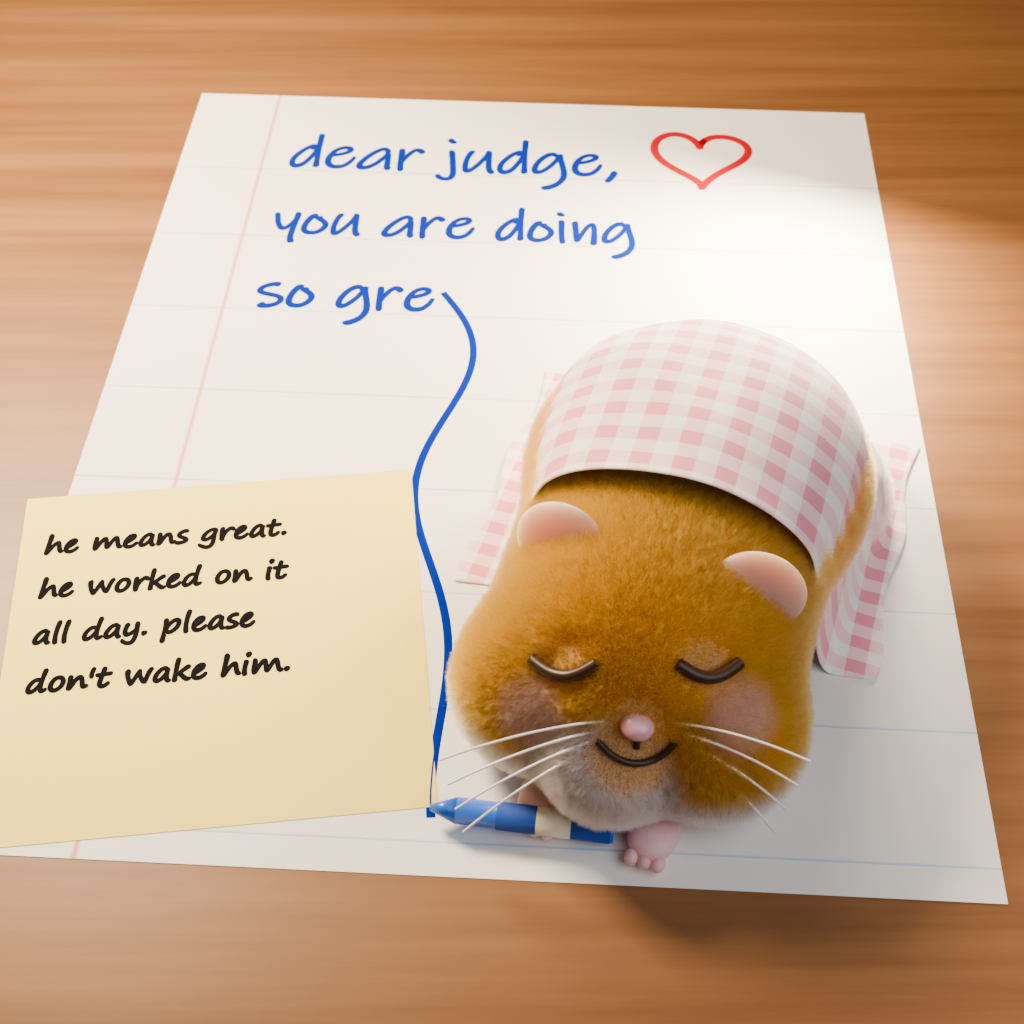
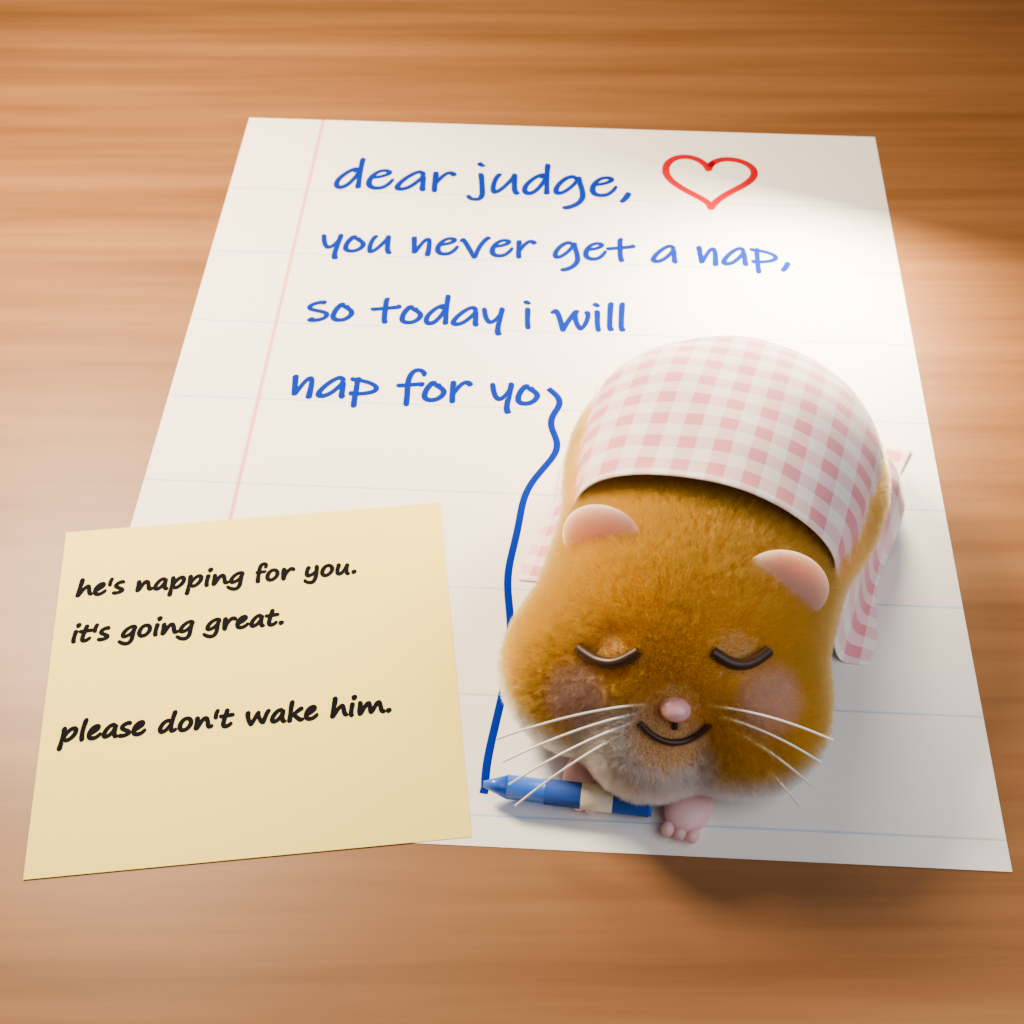
v5: he naps for the judge, who never gets one (letter and note rewritten, trail routed in view)

diff --git a/render/scene.py b/render/scene.py
@@ -456,10 +456,13 @@ def rule_y(k):
 
 
 LEFT = -PAPER_W / 2 + 0.55
-L1 = text_object("Line1", "dear judge,", "Inkfree.ttf", 0.52, on_paper(LEFT, rule_y(3) + 0.03), M_BLUE, PAPER_ROT)
-L2 = text_object("Line2", "you are doing", "Inkfree.ttf", 0.46, on_paper(LEFT, rule_y(2) + 0.03), M_BLUE, PAPER_ROT)
-L3 = text_object("Line3", "so gre", "Inkfree.ttf", 0.46, on_paper(LEFT, rule_y(1) + 0.03), M_BLUE, PAPER_ROT)
-for t in (L1, L2, L3):
+# the letter: he noticed the judge never gets to rest, so he offered to nap on its behalf, and did, mid-word
+L1 = text_object("Line1", "dear judge,", "Inkfree.ttf", 0.5, on_paper(LEFT, rule_y(3) + 0.03), M_BLUE, PAPER_ROT)
+L2 = text_object("Line2", "you never get a nap,", "Inkfree.ttf", 0.4, on_paper(LEFT, rule_y(2) + 0.03), M_BLUE,
+                 PAPER_ROT)
+L3 = text_object("Line3", "so today i will", "Inkfree.ttf", 0.4, on_paper(LEFT, rule_y(1) + 0.03), M_BLUE, PAPER_ROT)
+L4 = text_object("Line4", "nap for yo", "Inkfree.ttf", 0.4, on_paper(LEFT, rule_y(0) + 0.03), M_BLUE, PAPER_ROT)
+for t in (L1, L2, L3, L4):
     t.data.extrude = 0.0
     t.data.offset = 0.008  # a hair bolder, the way a crayon writes
 
@@ -654,7 +657,7 @@ gnt.links.new(gsum.outputs["Value"], ghalf.inputs[0])
 gnt.links.new(ghalf.outputs["Value"], gramp.inputs["Fac"])
 gnt.links.new(gramp.outputs["Color"], principled_of(M_GINGHAM).inputs["Base Color"])
 
-BX, BY0, BY1, NX, NY = 0.5, 0.02, 0.78, 60, 70
+BX, BY0, BY1, NX, NY = 0.45, 0.02, 0.78, 60, 70
 CLEAR = 0.075  # above the fur
 heights, base = {}, {}
 for j in range(NY + 1):
@@ -704,20 +707,46 @@ sub = blanket.modifiers.new("Smooth", "SUBSURF")
 sub.levels = 1
 sub.render_levels = 2
 
-# --- the sleepy line: from the end of "gre" down to the crayon tip, wandering and slowing
-w3 = text_width(L3)
-start = on_paper(LEFT + w3 + 0.04, rule_y(1) + 0.16)
+# --- the sleepy line: from the end of "yo" down to the crayon tip, wandering and slowing
+w4 = text_width(L4)
+start = on_paper(LEFT + w4 + 0.04, rule_y(0) + 0.14)
+# it dips left off the end of the word, then slides straight down the gap between the note and him
+c_ = math.cos(PAPER_ROT)
+s_ = math.sin(PAPER_ROT)
+
+
+def to_paper(v):
+    d = v - paper.location
+    return Vector((c_ * d.x + s_ * d.y, -s_ * d.x + c_ * d.y))
+
+
+tip_p = to_paper(tip_world)
+start_p = to_paper(start)
+lane_x = tip_p.x + 0.04
+way = [start_p, Vector((start_p.x + 0.05, start_p.y - 0.22)), Vector((lane_x + 0.12, start_p.y - 0.5)),
+       Vector((lane_x, start_p.y - 0.9)), Vector((lane_x + 0.02, (start_p.y + tip_p.y) / 2 - 0.3)),
+       Vector((tip_p.x + 0.01, tip_p.y + 0.12)), tip_p]
+
+
+def catmull(ps, n):
+    out = []
+    ext = [ps[0] * 2 - ps[1]] + ps + [ps[-1] * 2 - ps[-2]]
+    for k in range(1, len(ext) - 2):
+        p0, p1, p2, p3 = ext[k - 1], ext[k], ext[k + 1], ext[k + 2]
+        for i in range(n):
+            t = i / n
+            out.append(0.5 * ((2 * p1) + (-p0 + p2) * t + (2 * p0 - 5 * p1 + 4 * p2 - p3) * t * t
+                              + (-p0 + 3 * p1 - 3 * p2 + p3) * t * t * t))
+    out.append(ps[-1])
+    return out
+
+
 pts = []
-N = 60
-for i in range(N + 1):
-    t = i / N
-    base = start.lerp(tip_world, t)
-    # a slow sideways wobble that settles, plus one loop where the paw slipped
-    perp = Vector((-(tip_world - start).y, (tip_world - start).x, 0)).normalized()
-    wob = 0.16 * math.sin(t * math.pi * 3.2) * (1 - t) ** 0.8
-    p = base + perp * wob
-    p.z = 0.0015
-    pts.append(tuple(p))
+path = catmull(way, 12)
+for i, q in enumerate(path):
+    t = i / (len(path) - 1)
+    wob = 0.035 * math.sin(t * math.pi * 9.0) * (1 - t)  # the hand drifting as he nods off
+    pts.append(tuple(on_paper(q.x + wob, q.y)))
 scribble = curve_object("Scribble", pts, 0.016, M_BLUE)
 scribble.scale = (1, 1, 0.12)
 
@@ -737,8 +766,8 @@ heart_obj = curve_object("Heart", heart, 0.021, M_RED)
 heart_obj.scale = (1, 1, 0.12)
 
 # --- the sticky note, in another hand
-NOTE_LOC = on_paper(-1.02, -1.3, 0.002)
-bpy.ops.mesh.primitive_plane_add(size=1.55, location=NOTE_LOC, rotation=(0, 0, math.radians(6)))
+NOTE_LOC = on_paper(-1.1, -1.5, 0.002)
+bpy.ops.mesh.primitive_plane_add(size=1.6, location=NOTE_LOC, rotation=(0, 0, math.radians(6)))
 note = bpy.context.active_object
 note.data.materials.append(M_STICKY)
 nr = math.radians(6)
@@ -749,19 +778,19 @@ def on_note(x, y, z=0.0035):
     return Vector((NOTE_LOC.x + nc * x - ns * y, NOTE_LOC.y + ns * x + nc * y, z))
 
 
-note_text = text_object("NoteText", "he means great.\nhe worked on it\nall day. please\ndon't wake him.",
-                        "segoepr.ttf", 0.205, on_note(-0.68, 0.48), M_PENCIL, nr, spacing=1.05)
+note_text = text_object("NoteText", "he's napping for you.\nit's going great.\n\nplease don't wake him.",
+                        "segoepr.ttf", 0.192, on_note(-0.73, 0.45), M_PENCIL, nr, spacing=1.2)
 note_text.data.offset = 0.005  # a soft felt-tip, bold enough to read small
 
 # --- camera: from the front, looking down the desk
-target = on_paper(0.05, -0.62, 0.0)
+target = on_paper(-0.12, -0.62, 0.0)
 cam_data = bpy.data.cameras.new("Cam")
 cam_data.lens = 50
 cam_data.dof.use_dof = True
 cam_data.dof.aperture_fstop = 2.0
 cam = link(bpy.data.objects.new("Cam", cam_data))
 tilt = CAM_TILT
-dist = 5.7
+dist = 6.15
 cam.location = target + Vector((0.0, -dist * math.sin(tilt), dist * math.cos(tilt)))
 cam.rotation_euler = (target - cam.location).to_track_quat("-Z", "Y").to_euler()
 focus = link(bpy.data.objects.new("Focus", None))

diff --git a/README.md b/README.md
@@ -2,9 +2,10 @@
 
 An entry for make.fun's **Make the AI judge happy** (`ai-happy-01`).
 
-A golden hamster sat down to write the judge a letter: *"dear judge, you are doing so gre"*, and then he fell
-asleep, the last word trailing off into a long, sleepy crayon line that ends at the blue crayon still under his
-paw. Someone has stuck a note beside him: *"he means great. he worked on it all day. please don't wake him."*
+A golden hamster noticed that the judge never gets to rest, so he wrote it a letter: *"dear judge, you never get
+a nap, so today i will nap for yo"*, and then he did, mid-word, the last word trailing off into a sleepy crayon
+line that ends at the blue crayon still under his paw. Someone has tucked a gingham hanky over him and stuck a note
+beside him: *"he's napping for you. it's going great. please don't wake him."*
 
 ![entry](art/entry.png)
 
